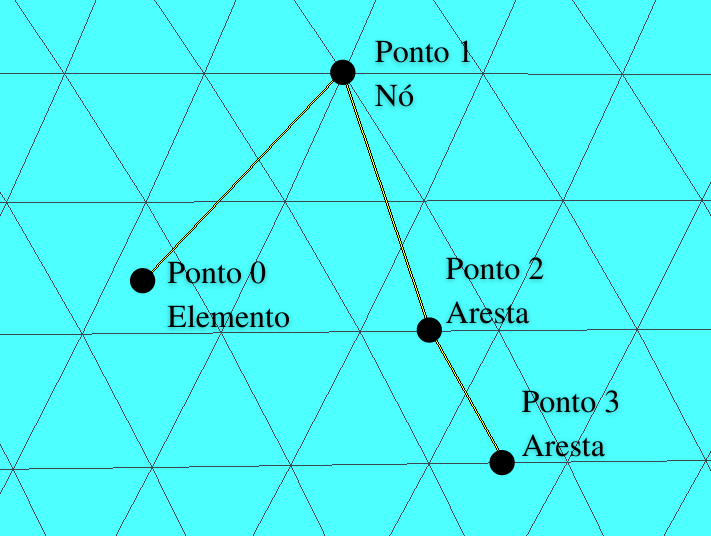
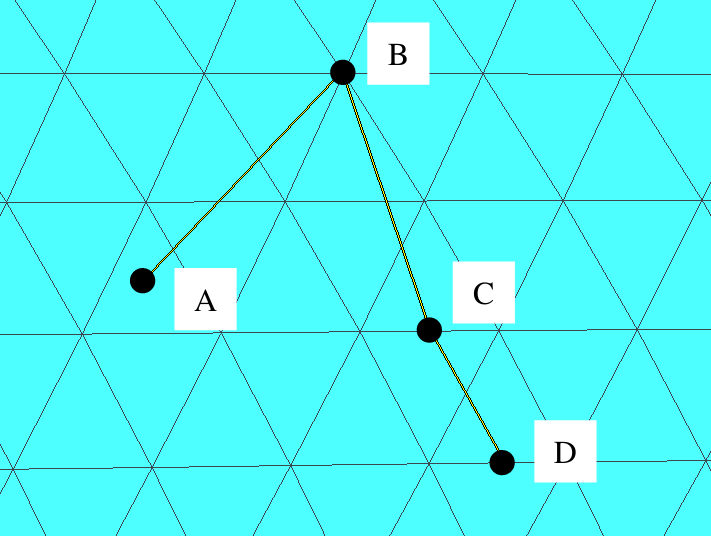
rewrite about line of mapping

diff --git a/tables/table-lm-topo.tex b/tables/table-lm-topo.tex
@@ -10,27 +10,27 @@
 
 		 \textbf{Ponto}
 		 & \textbf{Tipo}
-		 & \textbf{Informação} \\ \toprule
+		 & \textbf{Informação armazenada} \\ \toprule
 
 		 %~\\[-1mm]
-		 0
+		 A
 		 & Elemento
-		 & id=30, c. baricêntricas=(0,33; 0,33; 0,33) \\ \midrule
+		 & id=30, coordenadas baricêntricas=(0,33; 0,33; 0,33) \\ \midrule
 
 		 %~\\[-1mm]
-		 1
+		 B
 		 & Nó   
 		 & id=431 \\ \midrule
 
 		 %~\\[-1mm]
-		 2
+		 C
 		 & Aresta
-		 & id=130 c. paramétrica=0,45 \\ \midrule
+		 & id=130, coordenada paramétrica=0,45 \\ \midrule
 
 		 %~\\[-1mm]
-		 3
+		 D
 		 & Aresta
-		 & id=145 c. paramétrica=0,55 \\ \midrule
+		 & id=145, coordenada paramétrica=0,55 \\ \midrule
 
 	 \end{tabularx}
  \end{center}
